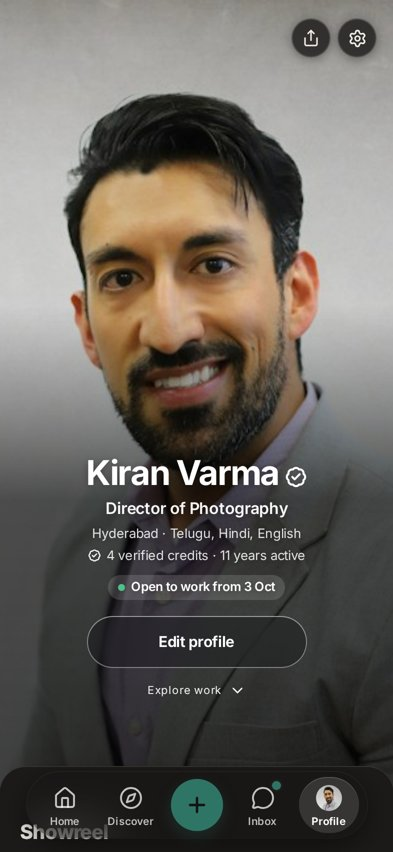
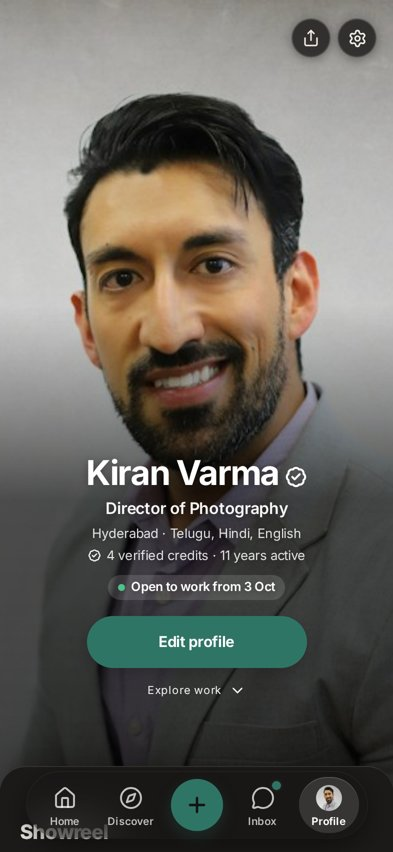
Real posters, green Edit profile, cover-slide hero
Six supplied prototype posters (cropped to 2:3) replace the type-set
fallback. Edit profile is the green primary. On person and house pages
the hero is pinned and the content sheet slides up over it; the image
eases in and dims, the title card lifts and fades (still with Reduced
Motion).

Claude-Session: https://claude.ai/code/session_01KygFYK7TEGeL2Xh1JcsEgN

Changed region(s): [[0.2137, 0.7019, 0.7939, 0.7934]]

diff --git a/src/styles/profile-stage2.css b/src/styles/profile-stage2.css
@@ -303,3 +303,23 @@
 @media (prefers-reduced-transparency: reduce) {
   .hhero-slate { -webkit-backdrop-filter: none; backdrop-filter: none; background: rgba(18, 18, 20, 0.86); }
 }
+
+/* ===================================================== Cover-slide (review feedback)
+ * The cinematic hero stays pinned while the content sheet slides up over it, like a curtain card over the title:
+ * the hero never scrolls away. As the sheet rises (--hero-t, 0 → 1, written by src/ui/useHeroParallax.ts and
+ * HouseHero), the image eases in a little and dims, and the title card lifts and fades. Only transform and opacity
+ * change. With Reduced Motion --hero-t stays 0: the sheet still covers the hero, but nothing moves or fades. */
+.phone .v-profile--immersive .phero,
+.phone .hpage--cine .hhero { position: sticky; top: 0; z-index: 0; }
+.phone .v-profile--immersive .psheet,
+.phone .hpage--cine .psheet { z-index: 3; box-shadow: 0 -12px 32px rgba(0, 0, 0, 0.22); }
+.phone .v-profile--immersive .phero .ohero-parallax { transform: scale(calc(1 + 0.06 * var(--hero-t, 0))) !important; transform-origin: 50% 35%; will-change: transform; }
+.phone .hpage--cine .hhero-reel { transform: scale(calc(1 + 0.06 * var(--hero-t, 0))); transform-origin: 50% 35%; will-change: transform; }
+.phone .v-profile--immersive .phero-dim { display: block; position: absolute; inset: 0; z-index: 2; background: #000; pointer-events: none; opacity: calc(0.6 * var(--hero-t, 0)) !important; }
+.phone .hpage--cine .hhero::after { content: ''; position: absolute; inset: 0; z-index: 2; background: #000; pointer-events: none; opacity: calc(0.6 * var(--hero-t, 0)); }
+.phone .v-profile--immersive .phero .profile-intro,
+.phone .hpage--cine .hhero-intro { z-index: 3; opacity: calc(1 - 1.5 * var(--hero-t, 0)); transform: translate3d(0, calc(-40px * var(--hero-t, 0)), 0) scale(calc(1 - 0.05 * var(--hero-t, 0))); will-change: transform, opacity; }
+.phone .v-profile--immersive .phero .profile-scroll-cue,
+.phone .hpage--cine .hhero-cue { z-index: 3; opacity: calc(1 - 4 * var(--hero-t, 0)); }
+.phone .v-profile--immersive .phero .phero-bar,
+.phone .hpage--cine .hhero .phero-bar { z-index: 4; }

diff --git a/src/screens/org/HouseHero.tsx b/src/screens/org/HouseHero.tsx
@@ -1,5 +1,5 @@
 import { ChevronDown } from 'lucide-react';
-import { useEffect, useState, type ReactNode } from 'react';
+import { useEffect, useState, type CSSProperties, type ReactNode } from 'react';
 import { useReducedMotion } from 'framer-motion';
 import type { Media, Org } from '../../data/types';
 import { Avatar, Photo, Verified } from '../../ui/primitives';
@@ -14,10 +14,12 @@ import { scriptLang } from '../../ui/compose';
  * Over the image, bottom-up like a film's title card: the house mark, an eyebrow (production house and city), the
  * name, its line, the record (projects, credited people, open roles), then the actions. A slate above names what
  * the house is making now.
+ *
+ * The hero is pinned while the page's sheet slides up over it (the same cover-slide as an individual profile).
  */
 const HOLD = 6500;
 
-export function HouseHero({ o, stills, slate, record, actions, bar, own, onSwitch, onExplore, active }: {
+export function HouseHero({ o, stills, slate, record, actions, bar, own, onSwitch, onExplore, active, depth = 0 }: {
   o: Org;
   stills: Media[];
   slate?: { label: string; title: string };
@@ -28,6 +30,8 @@ export function HouseHero({ o, stills, slate, record, actions, bar, own, onSwitc
   onSwitch: () => void;
   onExplore: () => void;
   active: boolean;
+  /** 0 → 1 as the sheet slides up over the pinned hero (drives the cover-slide in CSS). */
+  depth?: number;
 }) {
   const reduce = useReducedMotion();
   const [shot, setShot] = useState(0);
@@ -41,7 +45,7 @@ export function HouseHero({ o, stills, slate, record, actions, bar, own, onSwitc
   }, [moving, stills.length]);
 
   return (
-    <div className={`hhero${moving ? ' hhero--moving' : ''}`} data-hero>
+    <div className={`hhero${moving ? ' hhero--moving' : ''}`} data-hero style={{ '--hero-t': reduce ? 0 : depth } as CSSProperties}>
       <div className="hhero-reel" aria-hidden>
         {stills.length ? (
           stills.map((m, i) => (

diff --git a/src/ui/useHeroParallax.ts b/src/ui/useHeroParallax.ts
@@ -39,6 +39,8 @@ export function useHeroParallax(onOver: (over: boolean) => void) {
     const frame = () => {
       raf = 0;
       const y = Math.max(0, sc.scrollTop);
+      // --hero-t (0 → 1 over the hero's height) drives the immersive profile's cover-slide in CSS.
+      hero.style.setProperty('--hero-t', reduced.matches ? '0' : Math.min(1, y / height).toFixed(3));
       if (reduced.matches) {
         photo.style.transform = '';
         if (dim) dim.style.opacity = '';
@@ -47,7 +49,8 @@ export function useHeroParallax(onOver: (over: boolean) => void) {
         photo.style.transform = `translate3d(0, ${(y * SPEED).toFixed(1)}px, 0) scale(${(1 + SCALE * t).toFixed(4)})`;
         if (dim) dim.style.opacity = (DIM * t).toFixed(3);
       }
-      const now = y < height * 0.75;
+      // The pinned hero is under the status bar until the sheet has nearly reached the top.
+      const now = y < height - 100;
       if (now !== isOver) {
         isOver = now;
         over.current(now);
@@ -69,6 +72,7 @@ export function useHeroParallax(onOver: (over: boolean) => void) {
       reduced.removeEventListener?.('change', onScroll);
       photo.style.transform = '';
       if (dim) dim.style.opacity = '';
+      hero.style.removeProperty('--hero-t');
     };
   }, []);
 }

diff --git a/src/data/posters.ts b/src/data/posters.ts
@@ -5,9 +5,9 @@ import type { Media } from './types';
  * the production goes here: a still is never cropped into a poster, and generated art is never presented as one.
  * Until a project's poster is listed, its credit shows the type-set poster (src/ui/PosterCard.tsx).
  *
- * To add one: put the file at public/images/posters/<project id>.jpg (2:3, at least 600×900) and add the id below.
+ * To add one: put the file at public/images/posters/<project id>.jpg (2:3; 600×900 or larger preferred) and add the id below.
  */
-const SUPPLIED: string[] = [];
+const SUPPLIED: string[] = ['faultlines', 'neeliraat', 'monsoon', 'kaaval', 'ratri', 'dhoop'];
 
 export const posterFor = (projectId: string): Media | undefined =>
-  SUPPLIED.includes(projectId) ? { id: `poster-${projectId}`, kind: 'image', src: `images/posters/${projectId}.jpg`, width: 600, height: 900 } : undefined;
+  SUPPLIED.includes(projectId) ? { id: `poster-${projectId}`, kind: 'image', src: `images/posters/${projectId}.jpg`, width: 334, height: 501 } : undefined;

diff --git a/src/screens/org/OrgScreen.tsx b/src/screens/org/OrgScreen.tsx
@@ -247,6 +247,7 @@ export function OrgScreen({ id, isTab }: { id: string; isTab?: boolean }) {
           onSwitch={() => openSheet({ name: 'identity' })}
           onExplore={() => { const el = scroller.current; const sheet = el?.querySelector<HTMLElement>('.psheet'); if (el && sheet) el.scrollTo({ top: sheet.offsetTop - 64, behavior: matchMedia('(prefers-reduced-motion: reduce)').matches ? 'auto' : 'smooth' }); }}
           active={scrollY < 500}
+          depth={Math.min(1, Math.max(0, scrollY) / (scroller.current?.querySelector<HTMLElement>('.hhero')?.offsetHeight || 700))}
         />
       ) : (
         <div className={`whero whero--org${dirOn ? ' whero--controls-only' : ''}`}>

diff --git a/src/screens/profile/ProfileScreen.tsx b/src/screens/profile/ProfileScreen.tsx
@@ -299,7 +299,7 @@ export function ProfileScreen({ id, isTab, active = true }: { id: string; isTab?
           {selectedCover.showreel && <button className="profile-play" onClick={() => setReelOpen(true)}><Play size={16} fill="currentColor" /> Play showreel</button>}
           <div className={`profile-actions${own ? ' profile-actions--self' : ''}`}>
           {own ? (
-            <Button block variant="secondary" onClick={() => push({ name: 'editProfile' })}>
+            <Button block variant="primary" onClick={() => push({ name: 'editProfile' })}>
               Edit profile
             </Button>
           ) : (

diff --git a/docs/ux-refinement/POSTER_INVENTORY.md b/docs/ux-refinement/POSTER_INVENTORY.md
@@ -1,6 +1,6 @@
 # Poster inventory
 
-Verified credits and a house's "Made by us" show each film as a 2:3 theatrical poster (`src/ui/PosterCard.tsx`, decision D4). No official poster artwork exists in the repository yet: `public/images/posters/` is empty. Until it's supplied, every card shows the **type-set poster**: the title in the display face on a deep ground, with the production and year.
+Verified credits and a house's "Made by us" show each film as a 2:3 theatrical poster (`src/ui/PosterCard.tsx`, decision D4). Six posters are supplied (2026-10-08) and live in `public/images/posters/`. Any other film shows the **type-set poster**: the title in the display face on a deep ground, with the production and year.
 
 **Prototype posters.** The product owner approved generated posters for these fictional films on 2026-10-08. The prompts are in `POSTER_PROMPTS.md`.
 
@@ -17,7 +17,16 @@ Verified credits and a house's "Made by us" show each film as a 2:3 theatrical p
 
 The card switches automatically, and its `data-poster` attribute changes from `typeset` to `supplied`.
 
-## Needed now
+## Supplied (2026-10-08)
+
+All six posters are in. They were cut from one contact sheet, so each is 334 × 501 px and slightly cropped at the sides to reach 2:3:
+
+- Neeli Raat loses part of the nurse's shoulder.
+- Dhoop loses the lighthouse at the right edge.
+
+Sharper, full-frame originals (600 × 900 or larger) can be dropped in over the same files.
+
+## Originally needed
 
 These projects are public and appear as poster cards: in a verified credit, or in "Made by us" once released.
 

diff --git a/docs/ux-refinement/PLAN.md b/docs/ux-refinement/PLAN.md
@@ -495,6 +495,13 @@ These QA scripts live in the session scratchpad, not the repository. Their check
   - Own house: Open a role is primary.
   - Visitor: Follow is solid green.
 - **Deep link:** `?org=<id>` opens a house page (QA and Studio).
+- **Review feedback, round 2:**
+  - **Posters supplied.** Six prototype posters are now live (`POSTER_INVENTORY.md`).
+  - **Edit profile is solid green**, matching Follow: one primary action on every profile.
+  - **Cover-slide.** On both the person and house pages, the hero is pinned (`position: sticky`) and the sheet slides up over it, casting a soft shadow.
+    - As the sheet rises, `--hero-t` (0 → 1) eases the image in by 6% and dims it by up to 60%, and the title card lifts 40 px and fades out.
+    - Only transform and opacity change. With Reduced Motion the sheet still covers the hero, but nothing moves.
+    - The compact header now appears once the sheet is about 100 px from the top.
 - **Empty state:** a profile with nothing to show yet gets one quiet line, plus Add work on your own profile, instead of an empty sheet. Empty Professional details and leading bands are suppressed.
 
 **Measured (Kiran, own, 393 px):**
